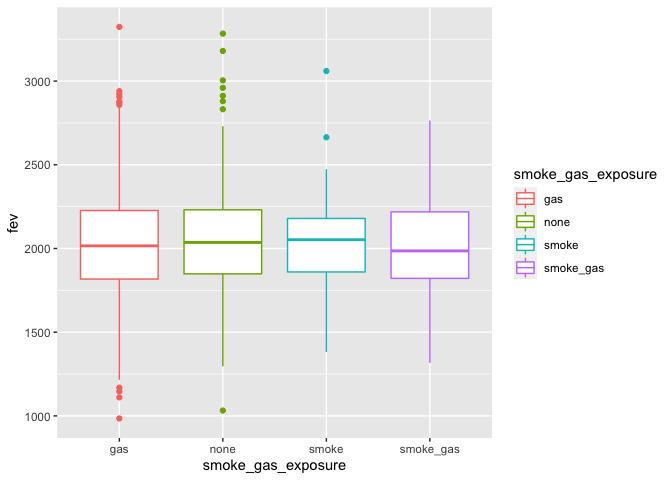
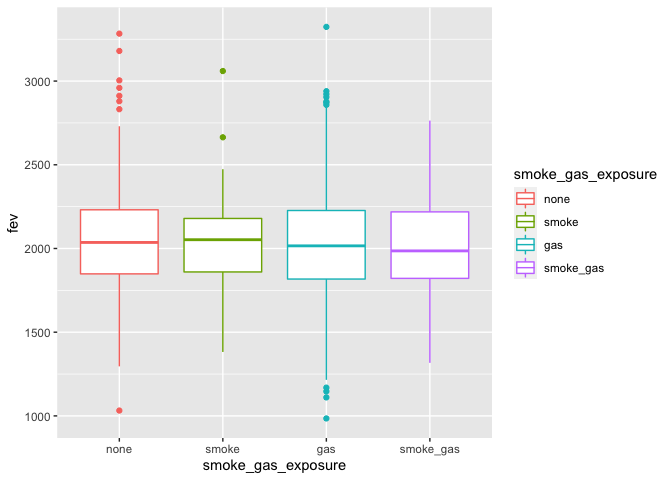
assignment02 is done! https://github.com/USCbiostats/PM566/issues/60

diff --git a/Assignment/assignment02/README.md b/Assignment/assignment02/README.md
@@ -1,7 +1,7 @@
 assignment02
 ================
 sl
-2022-10-04
+2022-10-06
 
 ``` r
 library(lubridate)
@@ -69,8 +69,23 @@ setwd("/Users/samuellu/Desktop/PM566/GitHub/pm566-fall2022-labs_Sam/Assignment/a
 ## Read in the data
 
 ``` r
-ind <- data.table::fread("chs_individual.csv")
-reg <- data.table::fread("chs_regional.csv")
+if (!file.exists("chs_individual.csv"))
+  download.file(
+    url = "https://raw.githubusercontent.com/USCbiostats/data-science-data/master/01_chs/chs_individual.csv",
+    destfile = "chs_individual.csv",
+    method   = "libcurl",
+    timeout  = 60
+    )
+ind <- fread("chs_individual.csv")
+
+if (!file.exists("chs_regional.csv"))
+  download.file(
+    url = "https://raw.githubusercontent.com/USCbiostats/data-science-data/master/01_chs/chs_regional.csv",
+    destfile = "chs_regional.csv",
+    method   = "libcurl",
+    timeout  = 60
+    )
+reg <- fread("chs_regional.csv")
 ```
 
 ``` r
@@ -128,11 +143,27 @@ summary(merged$fev)
     ##    Min. 1st Qu.  Median    Mean 3rd Qu.    Max.    NA's 
     ##   984.8  1809.0  2022.7  2031.3  2249.7  3323.7      95
 
+There are 89 NAs in the column of bmi and 95 NAs in the column of fev.
+
 ``` r
-merged[, bmi := fcoalesce(bmi, mean(bmi, na.rm = TRUE)),
-    by = .(male, hispanic)]
-merged[, fev := fcoalesce(fev, mean(fev, na.rm = TRUE)),
-    by = .(male, hispanic)]
+mean(is.na(merged$bmi))
+```
+
+    ## [1] 0.07416667
+
+``` r
+mean(is.na(merged$fev))
+```
+
+    ## [1] 0.07916667
+
+However,only 7.4% and 7.9% of the data is missing.
+
+``` r
+merged[, bmi := fcoalesce(bmi, mean(bmi, na.rm = TRUE)), 
+       by = .(male, hispanic)]
+merged[, fev := fcoalesce(fev, mean(fev, na.rm = TRUE)), 
+       by = .(male, hispanic)]
 ```
 
 ``` r
@@ -174,13 +205,11 @@ table(merged$obesity_level)
     ##         975         103          87          35
 
 ``` r
-merged_2 <- merged[!is.na(merged$obesity_level)][, .(
+merged[!is.na(merged$obesity_level)][, .(
   bmi_min = min(bmi, na.rm = T),
   bmi_max = max(bmi, na.rm = T), 
   bmi_length = length(bmi)
 ), by="obesity_level"]
-
-merged_2
 ```
 
     ##    obesity_level  bmi_min  bmi_max bmi_length
@@ -500,6 +529,12 @@ ggplot(merged, aes(x=bmi, y=fev, color=townname)) +
     exposure. Use different color schemes than the ggplot default.
 
 ``` r
+merged$smoke_gas_exposure <- factor(merged$smoke_gas_exposure, levels=c("none", "smoke", "gas", "smoke_gas"))
+
+merged$obesity_level <- factor(merged$obesity_level, levels=c("underweight", "normal", "overweight", "obese"))
+```
+
+``` r
 ggplot(data = merged[!is.na(obesity_level)], aes(fev, color=obesity_level, fill = obesity_level)) + 
   geom_histogram(fill="white", alpha=0.5) +
   scale_color_brewer(palette="Dark2") +
@@ -540,11 +575,25 @@ ggplot(data = merged[!is.na(obesity_level)][!is.na(smoke_gas_exposure)]) +
     exposure category.
 
 ``` r
+merged[!is.na(merged$obesity_level)] %>%
+  ggplot() + 
+    stat_summary(mapping = aes(x = obesity_level, y = fev),
+    fun.min = min,
+    fun.max = max,
+    fun = median)
+```
+
+![](README_files/figure-gfm/unnamed-chunk-20-1.png)<!-- -->
+
+``` r
 ggplot(merged[!is.na(merged$obesity_level)], aes(x=obesity_level, y=fev, color=obesity_level)) +
   geom_boxplot()
 ```
 
 ![](README_files/figure-gfm/box_fev_bmi-1.png)<!-- -->
+
+By checking the median of fev, the category of underweight is slightly
+lower than other groups.
 
 ``` r
 ggplot(merged[!is.na(merged$smoke_gas_exposure)], aes(x=smoke_gas_exposure, y=fev, color=smoke_gas_exposure)) +
@@ -576,8 +625,8 @@ pal
     ##     }
     ##     pf(rescaled)
     ## }
-    ## <bytecode: 0x7fc30cd87bc8>
-    ## <environment: 0x7fc30cd8a4f8>
+    ## <bytecode: 0x7f9a7faed430>
+    ## <environment: 0x7f9a7faefcf0>
     ## attr(,"colorType")
     ## [1] "numeric"
     ## attr(,"colorArgs")
@@ -597,7 +646,7 @@ leaflet() %>%
              title='pm25_mass', opacity=1)
 ```
 
-![](README_files/figure-gfm/unnamed-chunk-18-1.png)<!-- -->
+![](README_files/figure-gfm/unnamed-chunk-22-1.png)<!-- -->
 
 6.  Choose a visualization to examine whether PM2.5 mass is associated
     with FEV.
@@ -621,7 +670,7 @@ ggplot(merged[!is.na(merged$obesity_level)], aes(x = pm25_mass, y=fev, color = p
 
     ## `geom_smooth()` using formula 'y ~ x'
 
-![](README_files/figure-gfm/unnamed-chunk-19-1.png)<!-- -->
+![](README_files/figure-gfm/unnamed-chunk-23-1.png)<!-- -->
 
 ## Questions
 
@@ -633,7 +682,7 @@ in differnt towns. People with higher BMI tend to have higher fev.
 ### 2. What is the association between smoke and gas exposure and FEV?
 
 In the boxplot of smoke_gas_exposure and FEV, we can see that people in
-smoke_gas category have a lower median than other categories.
+smoke_gas category have a slightly lower median than other categories.
 
 ### 3. What is the association between PM2.5 exposure and FEV?
 
